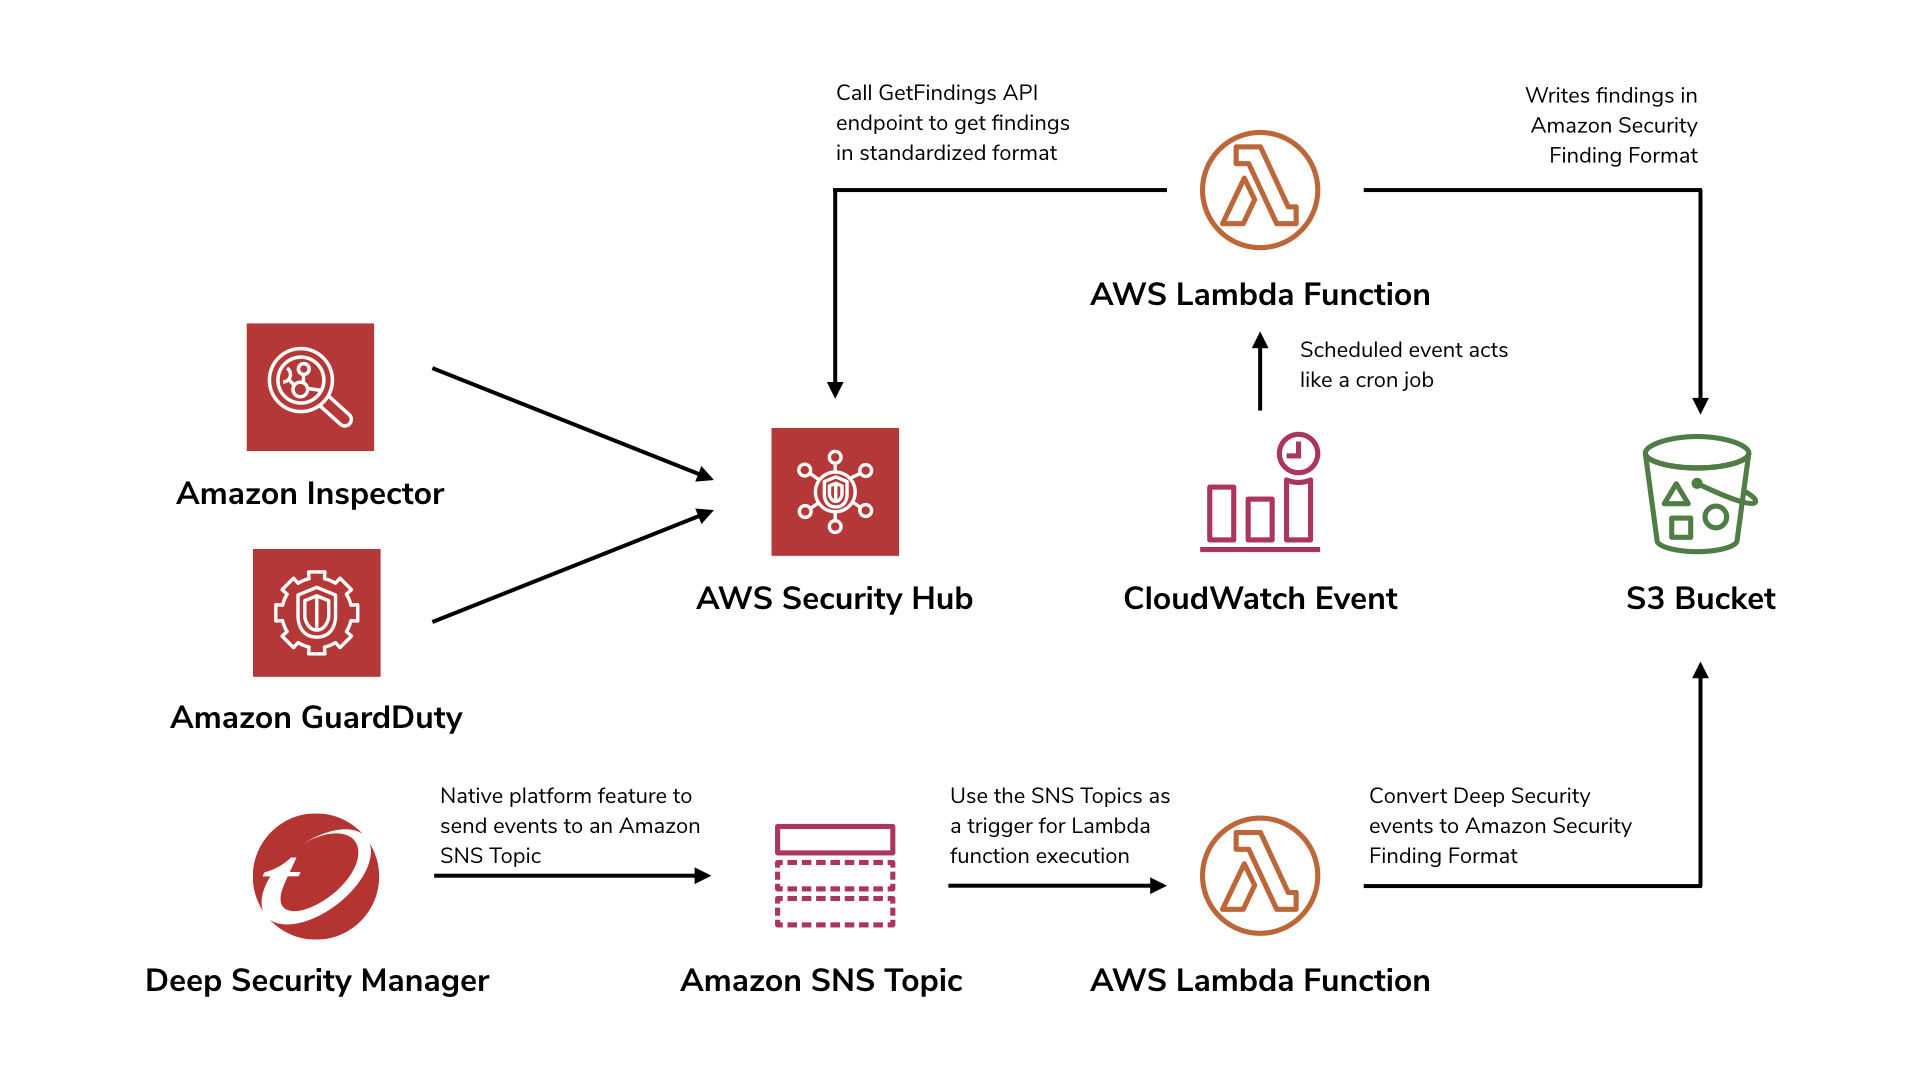
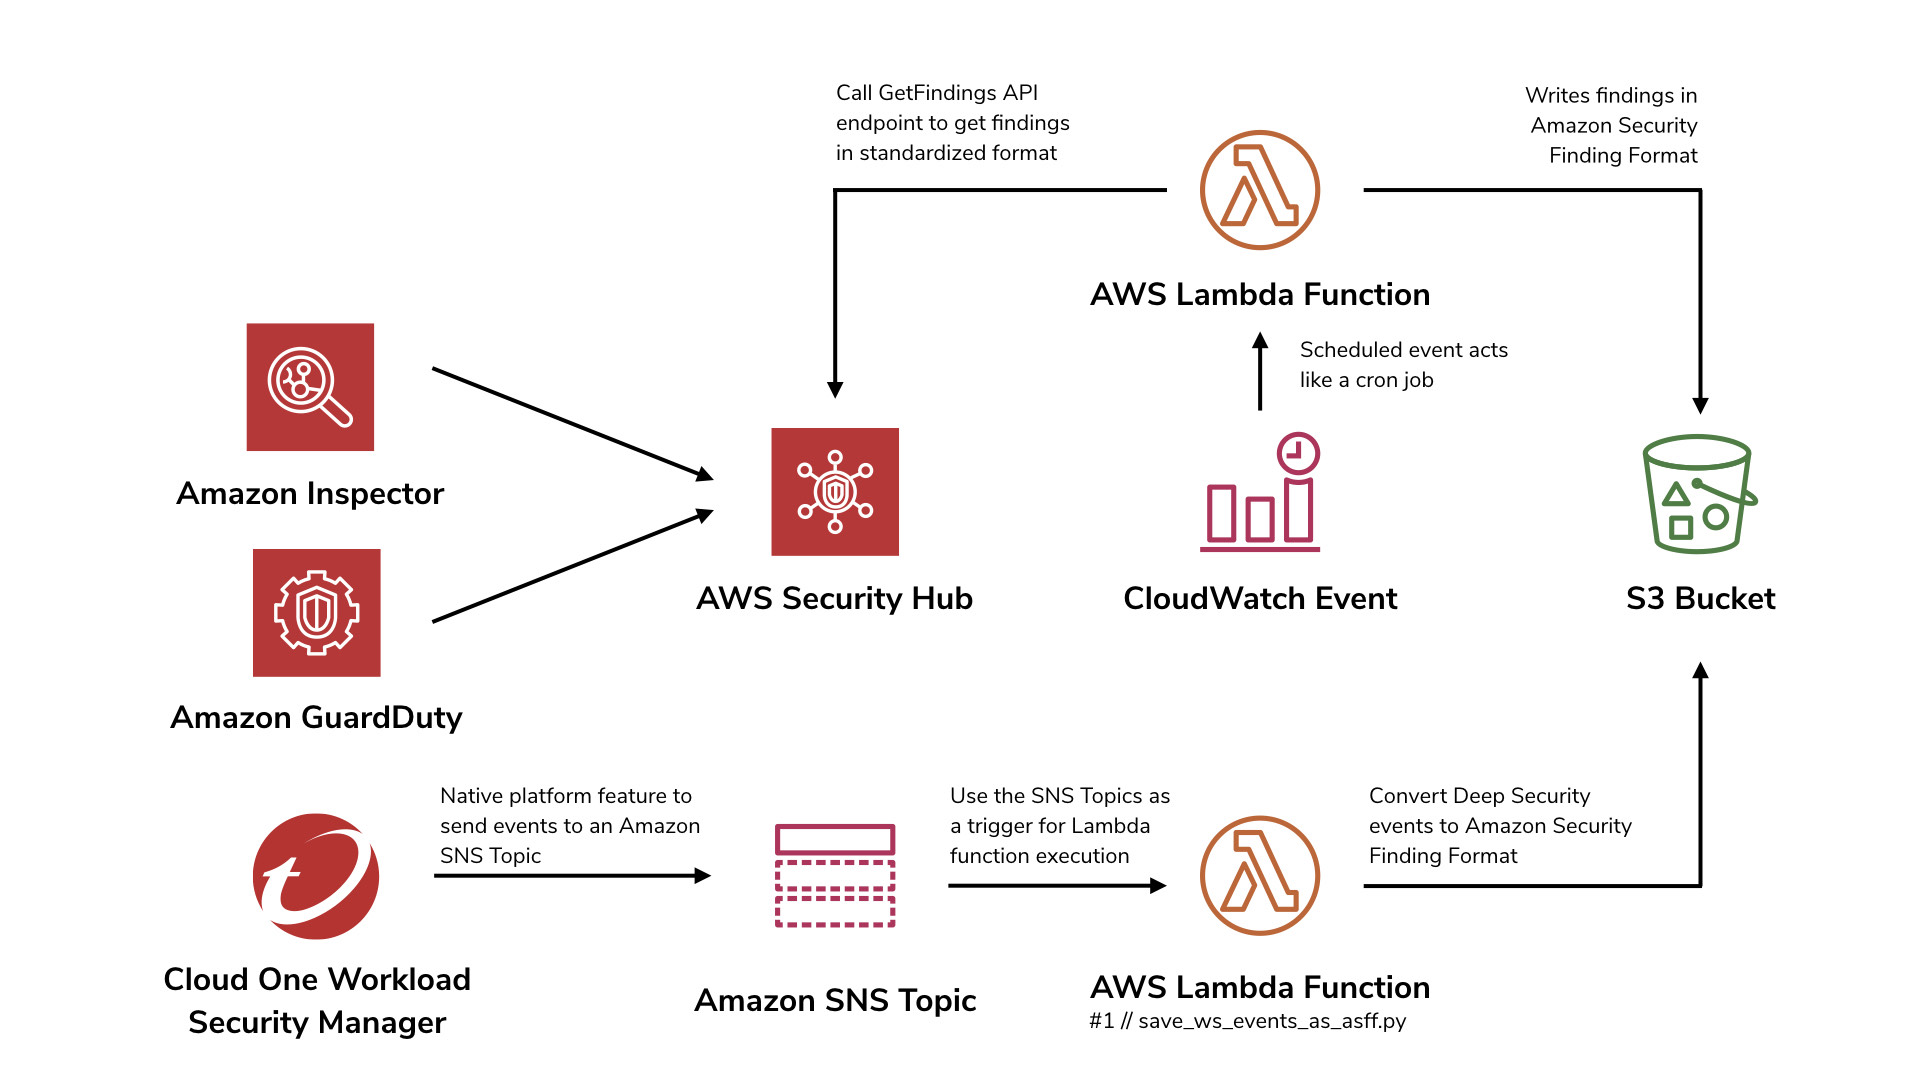
Updated README

Changed region(s): [[0.0625, 0.8861, 0.25, 0.9778], [0.5625, 0.8861, 0.75, 0.9472], [0.3438, 0.8861, 0.5, 0.9472]]

diff --git a/README.md b/README.md
@@ -7,3 +7,7 @@ System events from Workload Security don't fit into the format as it was designe
 ## Architecture
 
 ![Normalizing security events](docs/normalizing-aws-security-events.jpg)
+
+AWS Lambda function #1 [save_ws_events_as_asff.py](save_ws_events_as_asff.py) is triggered whenever Cloud One Workload Security sends and event to the specific Amazon SNS Topic.
+
+This function then reads the event in Cloud One's format and—for security events only—converts it to Amazon's Security Finding Format.
